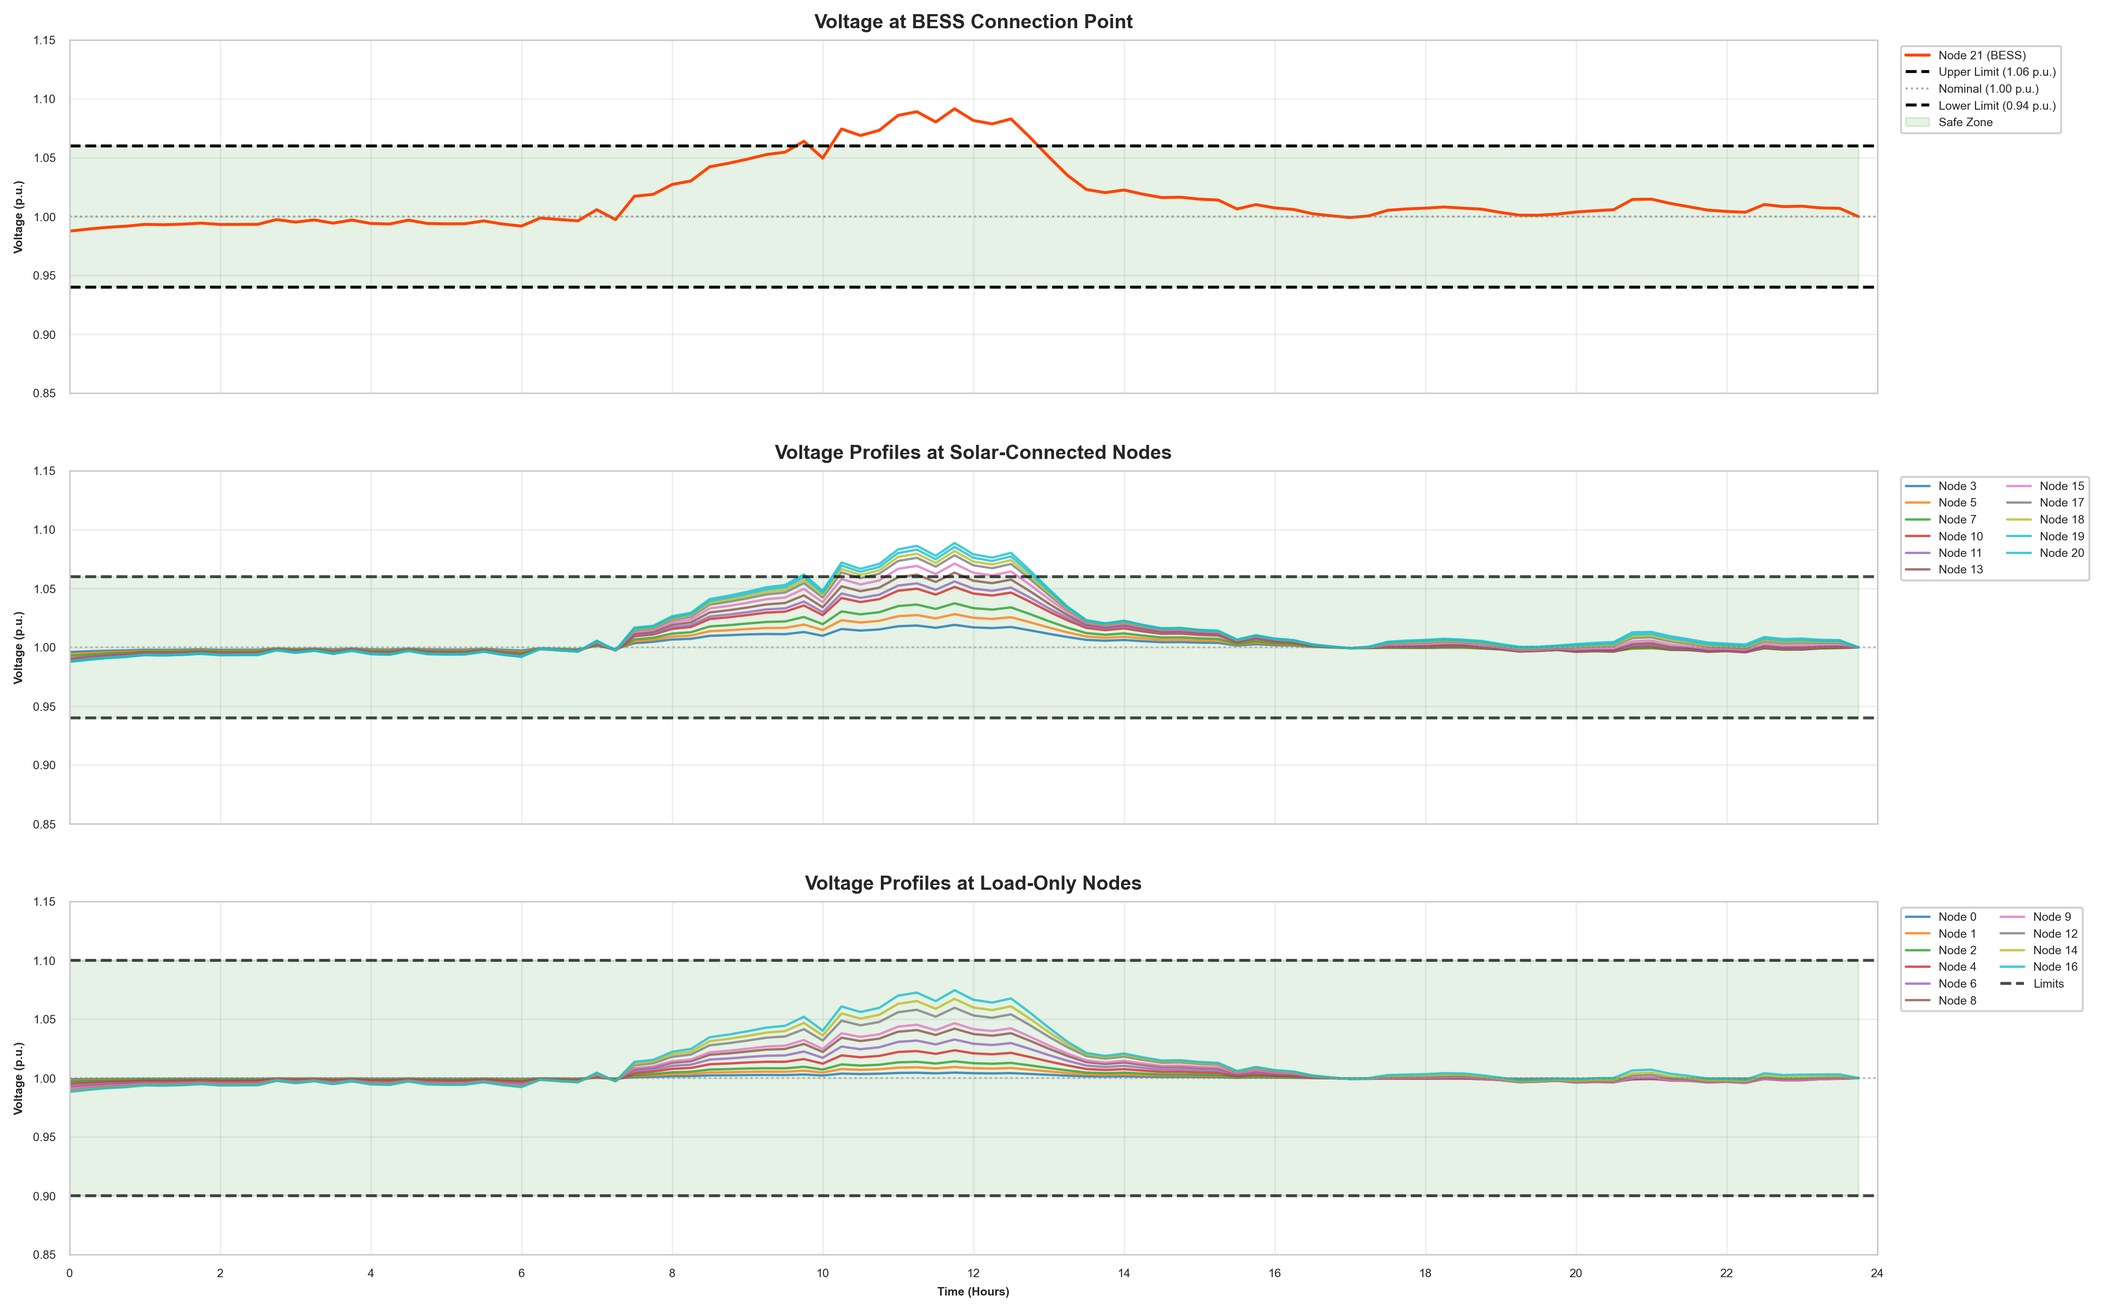
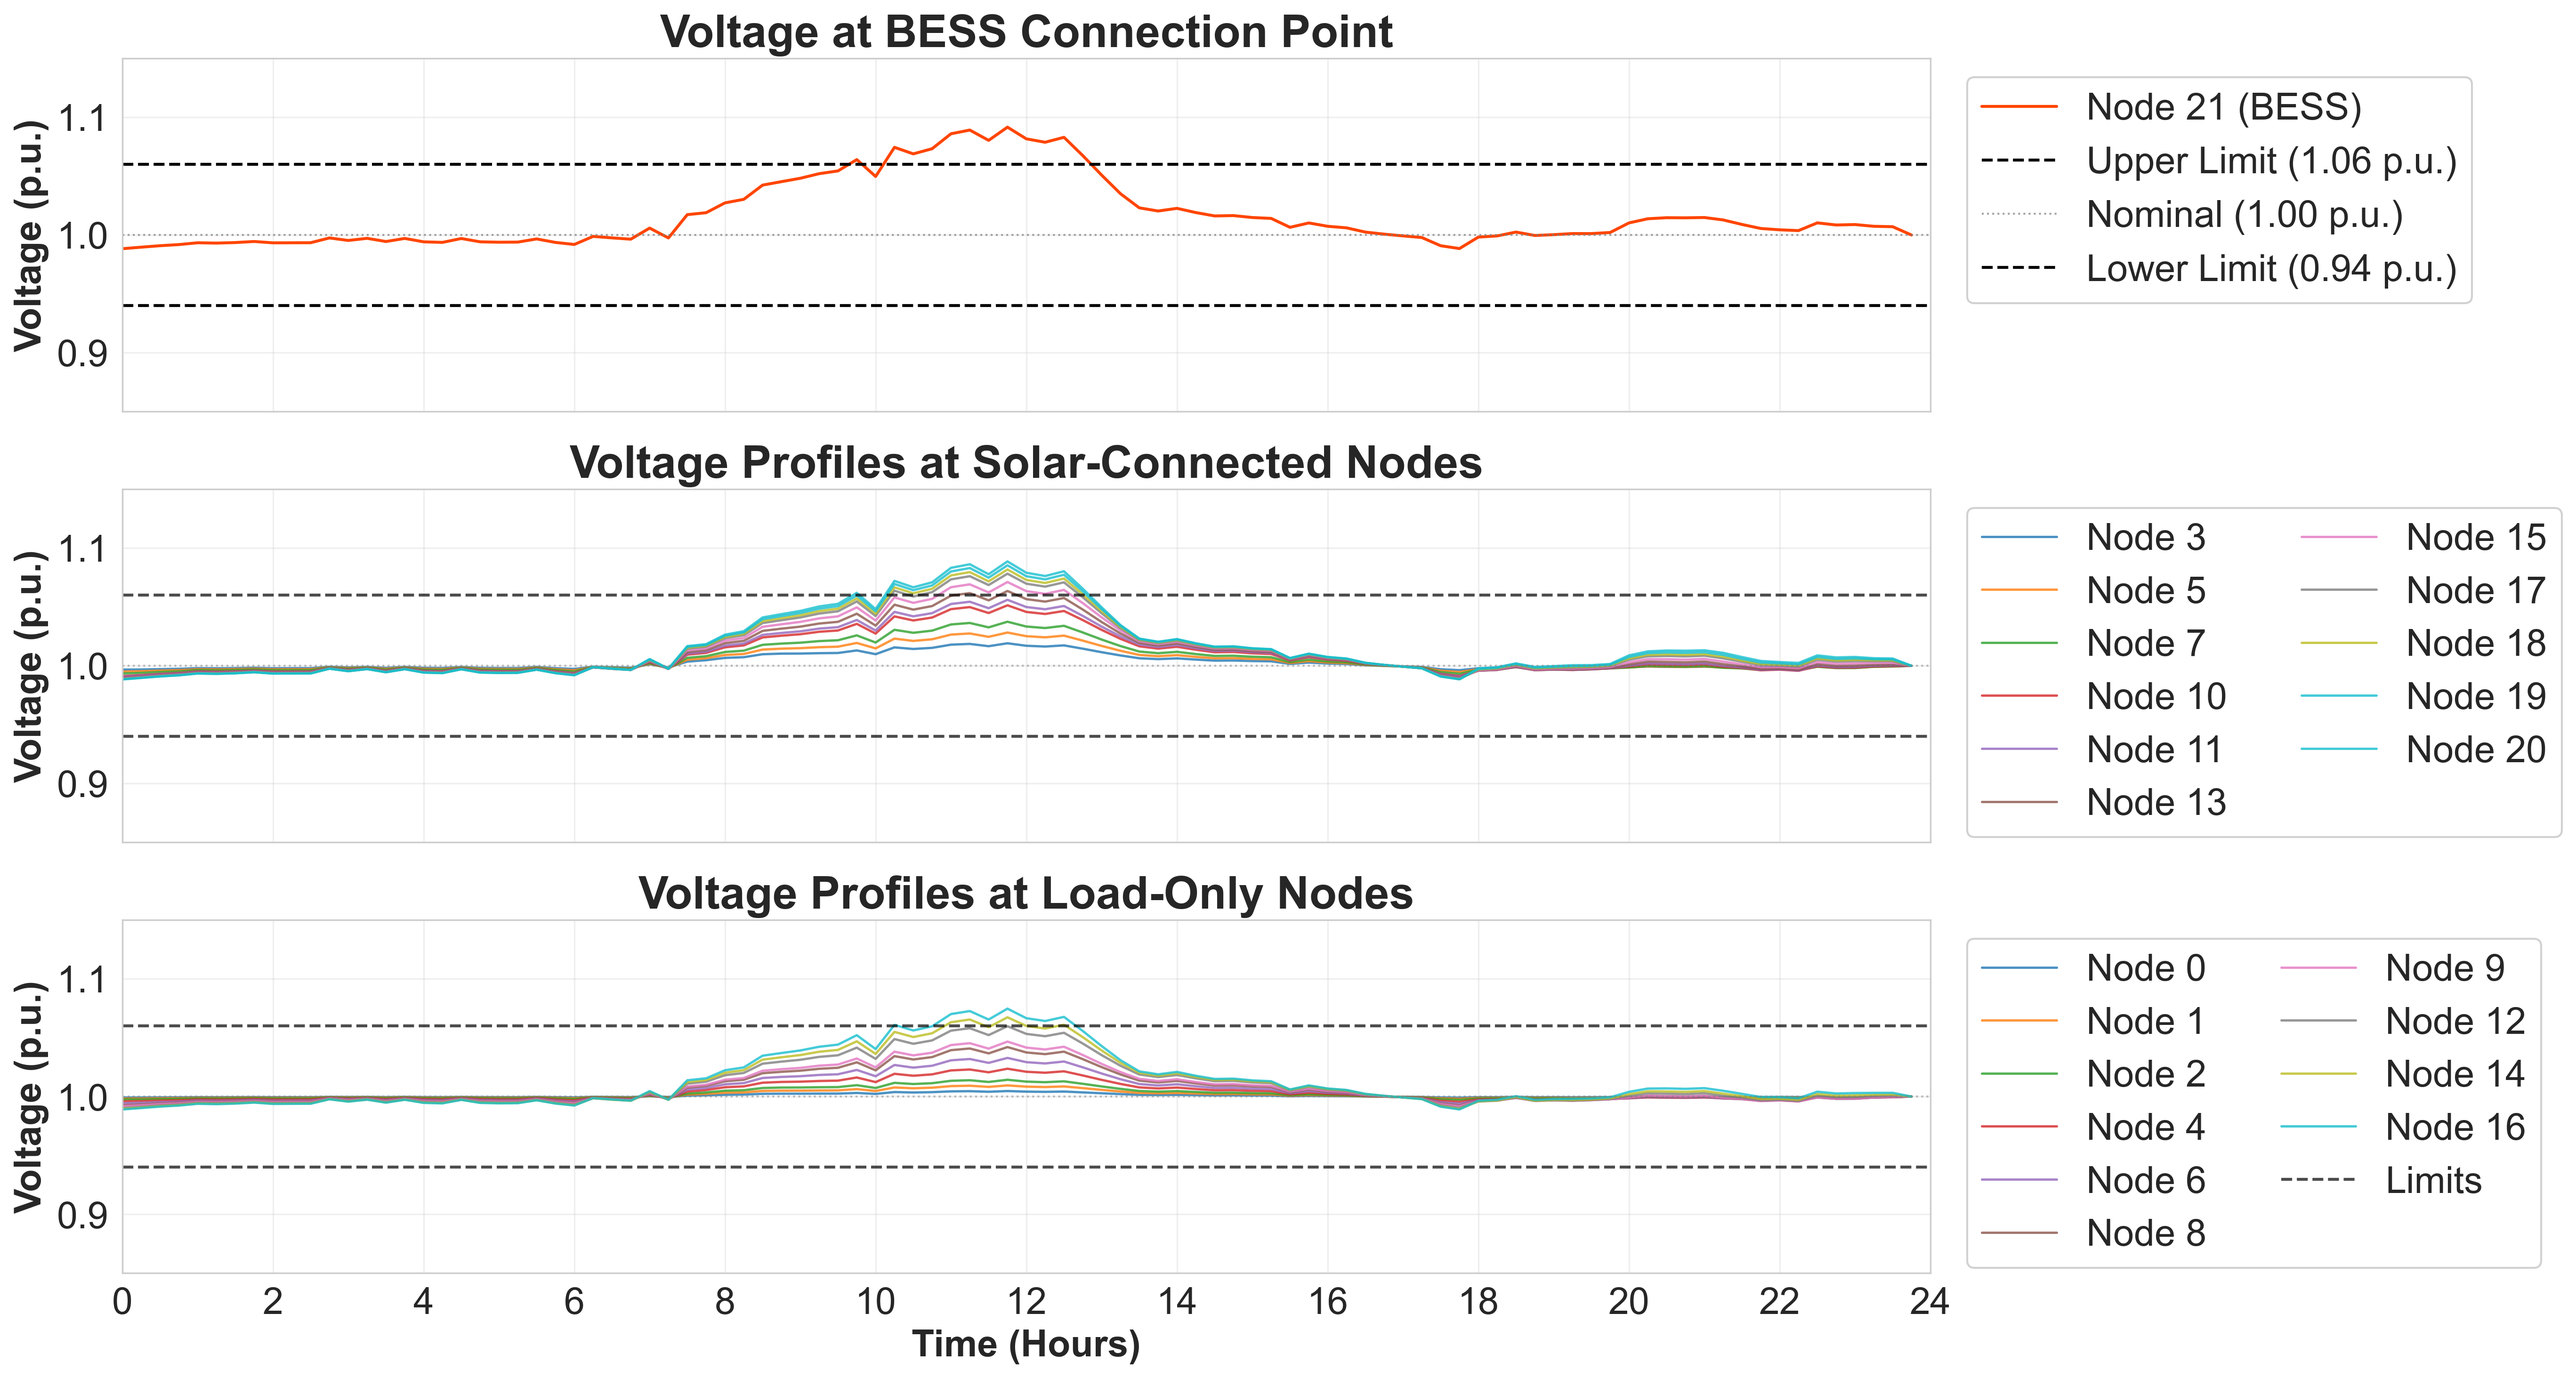
Add cycling benchmarks; update scenario/results

diff --git a/RL_agent/plot_results.py b/RL_agent/plot_results.py
@@ -21,7 +21,7 @@ STATS_PATH = os.path.join(script_dir, "checkpoints", "best_model", "vecnormalize
 OUTPUT_DIR = os.path.join(os.path.dirname(script_dir), "results_plots")  # Where to save plots
 
 steps_to_plot = 96  # One day (15 min intervals)
-SCENARIO_NAME = "intermittent_solar" # Set to same as train.py (e.g. "heatwave_day") or None for default
+SCENARIO_NAME = "Next_Day_Forecast_21_nodes" # Set to same as train.py (e.g. "heatwave_day") or None for default
  
 # Node configuration
 SOLAR_NODE_INDICES = [3, 5, 7, 10, 11, 13, 15, 17, 18, 19, 20]

diff --git a/RL_agent/train.py b/RL_agent/train.py
@@ -36,7 +36,7 @@ def main():
 
     # Set to a scenario name (e.g., "cloudy_day") to train on that specific scenario.
     # Set to None to use the default 'load_forecast.csv' and 'solar_forecast_formatted.csv'
-    scenario_name = "intermittent_solar"  # Change to any scenario above
+    scenario_name = "Next_Day_Forecast_21_nodes"  # Change to any scenario above
 
 
     
